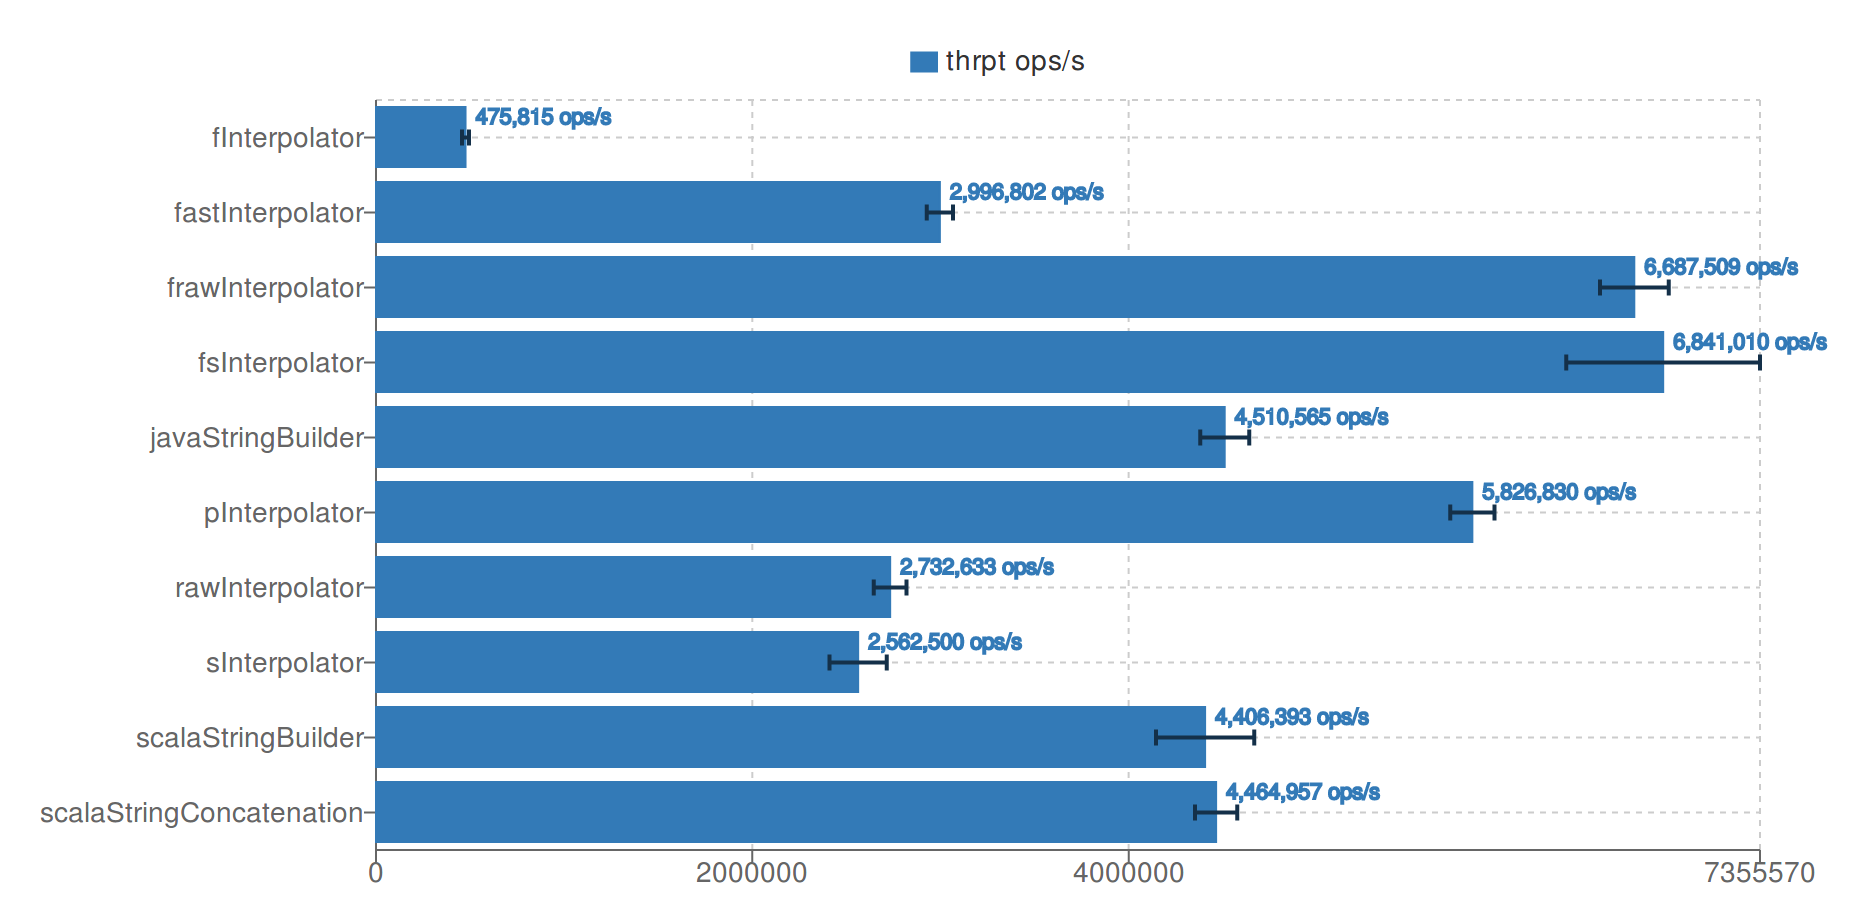
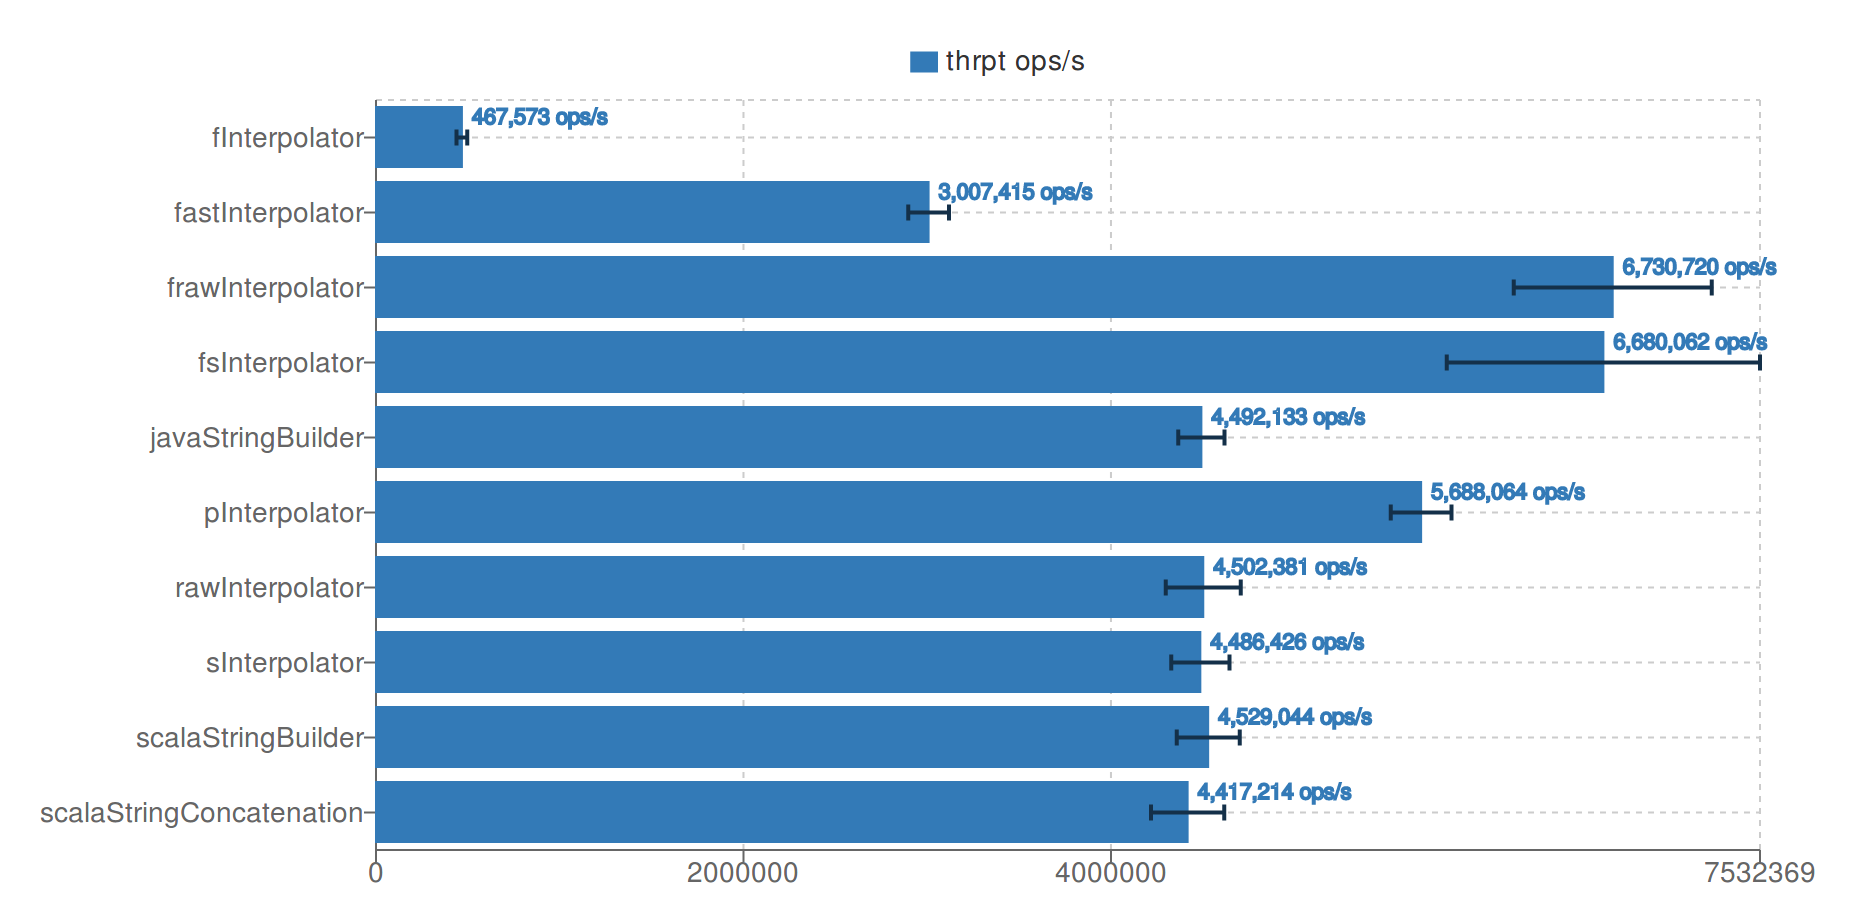
Fix #5 by adding benchmarks for use case with nested loops and updating docs with notes about considering the fastring interpolator or string builders for nested loops //cc @Atry

diff --git a/README.md b/README.md
@@ -41,13 +41,13 @@ fs"http://$host/$path"
 fraw"http://$host/$path"
 ```
 
-That's it! You have got ~2.5x speed up in runtime and ~5x less usage of heap memory comparing to Scala interpolators
-(numbers can vary depending on payload, JDK, and Scala versions).
+That's it! You have got ~1.5x speed up in runtime and ~4x less usage of heap memory comparing to standard interpolators
+which come with 2.12.5 version of Scala compiler.
 
 Also, it is more efficient than a simple concatenation of strings by the `+` operator or using string builders for that.
 
 Check for benchmark results where the fast string interpolator compared with standard Scala interpolators, 3rd-party 
-interpolators, Scala/Java string builders, and a string concatenation using JDK 8 and Scala 2.12.4:
+interpolators, Scala/Java string builders, and a string concatenation using JDK 8 and Scala 2.12.5:
 - *fInterpolator* - standard string interpolator with formatting
 - *fastInterpolator* - the [fastring](https://github.com/Atry/fastring) interpolator  
 - *frawInterpolator* - fast string interpolator replacement for raw string interpolator  
@@ -62,6 +62,13 @@ interpolators, Scala/Java string builders, and a string concatenation using JDK 
 [![Throughput](docs/fast_string_interpolator_throughput.png)](docs/fast_string_interpolator_throughput.png)
 
 [![Heap Usage](docs/fast_string_interpolator_heap_usage.png)](docs/fast_string_interpolator_heap_usage.png)
+
+*NOTE*: Numbers can vary depending on use case, payload, JDK, and Scala versions. For cases, like templating with lot 
+of nested cycles, please consider using of [fastring](https://github.com/Atry/fastring) or string builders immediately.
+
+[Results of benchmarks](https://sizmek.github.io/fast-string-interpolator) which compare performance of Fast String
+Interpolator with other alternatives for different cases of simple and nested loop usage, and for different versions of 
+JDK and Scala.  
 
 ### How it works
 
@@ -102,20 +109,17 @@ sbt clean +coverage +test +coverageReport +mimaReportBinaryIssues
 Feel free to modify benchmarks and check how it works on your payload, JDK, and Scala versions.
 
 To see throughput with allocation rate for different approaches of string concatenation run benchmarks with GC profiler
-for a specified Scala version using the following command:
+for a specified JDK and Scala versions using the following command:
 
 ```sh
-sbt -no-colors ++2.12.4 clean 'benchmark/jmh:run -prof gc -rf json -rff jdk-8_scala-2.12.4.json .*'
+sbt -java-home /usr/lib/jvm/java-8-oracle -no-colors ++2.12.5 clean 'benchmark/jmh:run -jvm /usr/lib/jvm/java-9-oracle/bin/java -prof gc -rf json -rff jdk-9_scala-2.12.5.json .*'
 ```
 
 It will save benchmark report in a specified JSON file.
 
 Results that are stored in JSON can be easy plotted in [JMH Visualizer](http://jmh.morethan.io/) by drugging & dropping
 of your file to the drop zone or using the `source` parameter with an HTTP link to your file in the URL like 
-[here](http://jmh.morethan.io/?source=https://sizmek.github.io/fast-string-interpolator/jdk-8_scala-2.12.4.json).
-
-[Results of benchmarks](https://sizmek.github.io/fast-string-interpolator) which compare performance of Fast String
-Interpolator for different JDK and Scala versions.  
+[here](http://jmh.morethan.io/?source=https://sizmek.github.io/fast-string-interpolator/jdk-8_scala-2.12.5.json).
 
 ### Publish locally
 
